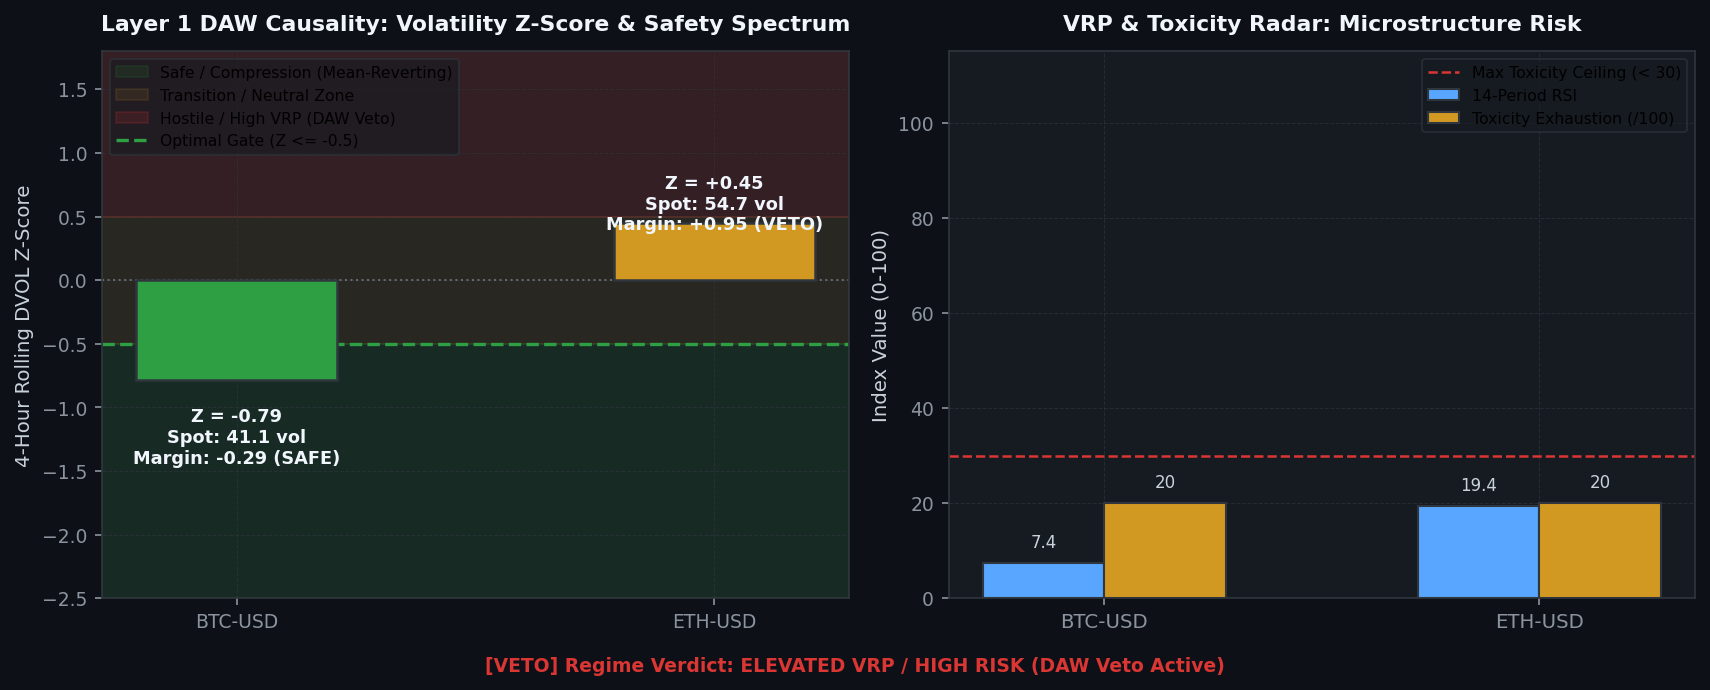
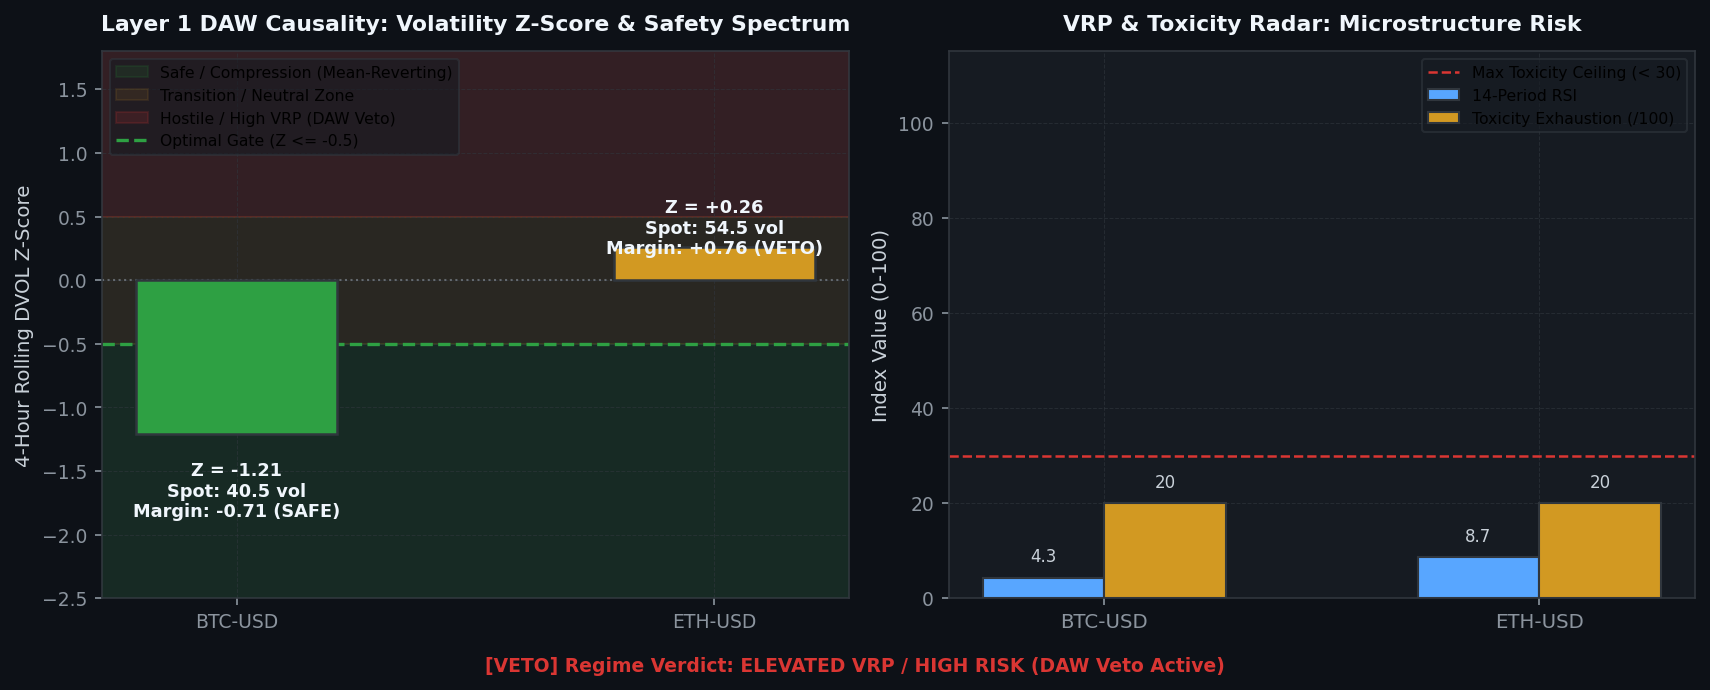
[coinbase] Hourly Status & Visual Intelligence Update: 2026-08-21 11:27:30

diff --git a/coinbase/data/hourly_status_report.md b/coinbase/data/hourly_status_report.md
@@ -3,7 +3,7 @@ layout: default
 ---
 
 # 🛡 Unified Trading System Hourly Status & Visual Intelligence
-> **Report Generated**: `2026-08-21 11:09:07 AM PDT (2026-08-21 18:09:07 UTC)`  
+> **Report Generated**: `2026-08-21 11:27:13 AM PDT (2026-08-21 18:27:13 UTC)`  
 > **System Health**: **🟡 DEGRADED / RESTRICTED** | **Win Rate**: `0.0%` | **Completed Trades**: `0`
 
 
@@ -15,13 +15,13 @@ Real-time Deribit implied volatility (DVOL) proxy tracking against mathematicall
 
 | Symbol | Proxy Oracle | Live Z-Score | Optimal Limit (YSP) | Safety Margin | Live VRP | Optimal VRP (YSP) | DAW Safety Verdict |
 | :--- | :--- | :--- | :--- | :--- | :--- | :--- | :--- |
-| `AVAX-USD` | DVOL_BTC | **-0.79** | **-0.50** | **-0.29** | **-50.43** | 5.0 | 🟢 SAFE |
-| `ETH-USD` | DVOL_ETH | **+0.45** | **-0.50** | **+0.95** | **-37.00** | 5.0 | 🔴 DAW VETOED |
-| `ADA-USD` | DVOL_BTC | **-0.79** | **-0.50** | **-0.29** | **-50.46** | 5.0 | 🟢 SAFE |
-| `DOGE-USD` | DVOL_BTC | **-0.79** | **-0.50** | **-0.29** | **-50.06** | 5.0 | 🟢 SAFE |
-| `BTC-USD` | DVOL_BTC | **-0.79** | **-0.50** | **-0.29** | **-50.39** | 5.0 | 🟢 SAFE |
-| `LINK-USD` | DVOL_BTC | **-0.79** | **-0.50** | **-0.29** | **-50.35** | 5.0 | 🟢 SAFE |
-| `SOL-USD` | DVOL_BTC | **-0.79** | **-0.50** | **-0.29** | **-50.36** | 5.0 | 🟢 SAFE |
+| `AVAX-USD` | DVOL_BTC | **-1.16** | **-0.50** | **-0.66** | **-50.43** | 5.0 | 🟢 SAFE |
+| `ETH-USD` | DVOL_ETH | **+0.29** | **-0.50** | **+0.79** | **-36.92** | 5.0 | 🔴 DAW VETOED |
+| `ADA-USD` | DVOL_BTC | **-1.16** | **-0.50** | **-0.66** | **-50.49** | 5.0 | 🟢 SAFE |
+| `DOGE-USD` | DVOL_BTC | **-1.16** | **-0.50** | **-0.66** | **-50.22** | 5.0 | 🟢 SAFE |
+| `BTC-USD` | DVOL_BTC | **-1.16** | **-0.50** | **-0.66** | **-50.39** | 5.0 | 🟢 SAFE |
+| `LINK-USD` | DVOL_BTC | **-1.16** | **-0.50** | **-0.66** | **-50.39** | 5.0 | 🟢 SAFE |
+| `SOL-USD` | DVOL_BTC | **-1.16** | **-0.50** | **-0.66** | **-50.36** | 5.0 | 🟢 SAFE |
 
 
 
@@ -37,12 +37,12 @@ We hereby certify that the mission-critical algorithmic data assets uploaded by 
 
 | Status | Data Asset | Freshness / State | Details / Timestamp |
 | :---: | :--- | :--- | :--- |
-| ✅ | **Go-List JSON** | Fresh (1.96h old) | 08-21 09:11 |
-| ✅ | **TimesFM Forecasts** | Fresh (3.12h old) | 08-21 08:02 |
-| ❌ | **Holding Times config** | STALE! (217.5h old) | Limit 168h |
-| ✅ | **BTC DVOL Cache** | Fresh (0.00h old) | 08-21 11:09 |
-| ✅ | **ETH DVOL Cache** | Fresh (0.00h old) | 08-21 11:09 |
-| ❌ | **Live Trading Telemetry** | STALE! (0.4h old) | Limit 0.05h |
+| ✅ | **Go-List JSON** | Fresh (2.27h old) | 08-21 09:11 |
+| ✅ | **TimesFM Forecasts** | Fresh (3.42h old) | 08-21 08:02 |
+| ❌ | **Holding Times config** | STALE! (217.8h old) | Limit 168h |
+| ✅ | **BTC DVOL Cache** | Fresh (0.01h old) | 08-21 11:26 |
+| ✅ | **ETH DVOL Cache** | Fresh (0.01h old) | 08-21 11:27 |
+| ❌ | **Live Trading Telemetry** | STALE! (0.7h old) | Limit 0.05h |
 
 <br>
 
@@ -68,12 +68,13 @@ Layer-by-layer tick evaluation waterfall and asset-specific performance tracking
 
 | Asset | Trades | Win Rate | Loss Streak | Status |
 | :--- | :--- | :--- | :--- | :--- |
-| `ADA-USD` | 4 | 100.0% | 0 | 🟢 OK |
-| `ETH-USD` | 1 | 100.0% | 0 | 🟢 OK |
+| `ADA-USD` | 5 | 100.0% | 0 | 🟢 OK |
+| `ETH-USD` | 2 | 100.0% | 0 | 🟢 OK |
 | `SOL-USD` | 2 | 100.0% | 0 | 🟢 OK |
 | `AVAX-USD` | 2 | 100.0% | 0 | 🟢 OK |
 | `BTC-USD` | 1 | 100.0% | 0 | 🟢 OK |
-| `DOGE-USD` | 3 | 100.0% | 0 | 🟢 OK |
+| `DOGE-USD` | 5 | 100.0% | 0 | 🟢 OK |
+| `LINK-USD` | 1 | 100.0% | 0 | 🟢 OK |
 
 ---
 ## 3. 💰 Coinbase Treasury, Balances & Active Orders
@@ -92,14 +93,14 @@ Live balance sheet and open maker liquidity positions from Coinbase CDP.
 ## 4. 🤖 Foundation Model MLOps & Pipeline Orchestration
 Weekly Algorithmic Mega Cap selection, Zero-shot multi-step forward return forecasts, and VSTEF parameter grid search status.
 
-- **TimesFM Forecast DB**: 🟢 Updated 3.1h ago (2026-08-21 08:02 AM PDT)
+- **TimesFM Forecast DB**: 🟢 Updated 3.4h ago (2026-08-21 08:02 AM PDT)
 - **Last Weekly VSTEF Optimization**: `2026-08-05 09:22:38 AM PDT`
-- **Next Scheduled VSTEF Run**: `2026-08-23 07:00:00 PM PDT (Monday 02:00 UTC)` (Countdown: **55.8h (2d 7h 50m)**)
+- **Next Scheduled VSTEF Run**: `2026-08-23 07:00:00 PM PDT (Monday 02:00 UTC)` (Countdown: **55.5h (2d 7h 32m)**)
 - **Promoted Parameter Gates**: $Z_{DVOL} \le -0.5$ | Holding Horizon $= 12\text{h}$
 
 ### Algorithmic Mega Cap Selection
 - **Last Run (Confirmation)**: `Never`
-- **Next Scheduled Run**: `2026-08-23 06:00:00 PM PDT (Monday 01:00 UTC)` (Countdown: **54.8h (2d 6h 50m)**)
+- **Next Scheduled Run**: `2026-08-23 06:00:00 PM PDT (Monday 01:00 UTC)` (Countdown: **54.5h (2d 6h 32m)**)
 - **Selected Mega Cap Universe**: `Could not fetch active universe from EC2`
 
 
@@ -113,18 +114,18 @@ Visualizing the impact of the VSTEF (Volatility-Synchronized Stop-Tightening Exe
 ## 5. 🖥 Multi-Node Infrastructure & Watchdog Matrix
 ```text
 ================================================================================
-   🛡  SFGK FUNNEL GUARDIAN WATCHDOG (HFT ONLY) |  06:09:03 PM
-   CPU:   6.9%  |  MEM:   8.4% (14.1GB / 15.4GB Free)
+   🛡  SFGK FUNNEL GUARDIAN WATCHDOG (HFT ONLY) |  06:27:12 PM
+   CPU:   7.0%  |  MEM:   8.4% (14.1GB / 15.4GB Free)
 ================================================================================
 SERVICE              | PID      | STATUS          | RESTARTS | INFO
 --------------------------------------------------------------------------------
 L3 Consumer          | 2966329  | RUNNING         | -        | Continuous Websocket Feed
 Trader AVAX-USD      | 2968352  | RUNNING         | 2        | Evaluating Funnel/Polling Order
-Trader ETH-USD       | 2968788  | RUNNING         | 1        | Evaluating Funnel/Polling Order
-Trader ADA-USD       | 2972684  | RUNNING         | 4        | Evaluating Funnel/Polling Order
-Trader DOGE-USD      | 2983466  | RUNNING         | 3        | Evaluating Funnel/Polling Order
+Trader ETH-USD       | 2993450  | RUNNING         | 2        | Evaluating Funnel/Polling Order
+Trader ADA-USD       | 2990663  | RUNNING         | 5        | Evaluating Funnel/Polling Order
+Trader DOGE-USD      | 2993659  | RUNNING         | 5        | Evaluating Funnel/Polling Order
 Trader BTC-USD       | 2969122  | RUNNING         | 1        | Evaluating Funnel/Polling Order
-Trader LINK-USD      | 2966381  | RUNNING         | 0        | Evaluating Funnel/Polling Order
+Trader LINK-USD      | 2994167  | RUNNING         | 1        | Evaluating Funnel/Polling Order
 Trader SOL-USD       | 2969326  | RUNNING         | 2        | Evaluating Funnel/Polling Order
 ================================================================================
 ```

diff --git a/coinbase/data/visual_intelligence.md b/coinbase/data/visual_intelligence.md
@@ -4,7 +4,7 @@ title: Visual Intelligence Gallery
 ---
 
 # 📈 Visual Intelligence Gallery
-> **Generated:** `2026-08-21 11:09:24`
+> **Generated:** `2026-08-21 11:27:30`
 > **[Return to Main Status Report](./hourly_status_report.html)**
 
 This page visualizes the internal states, market profiles, and decision criteria of the active **3-Tier Fused Decision Engine** across all layers.
